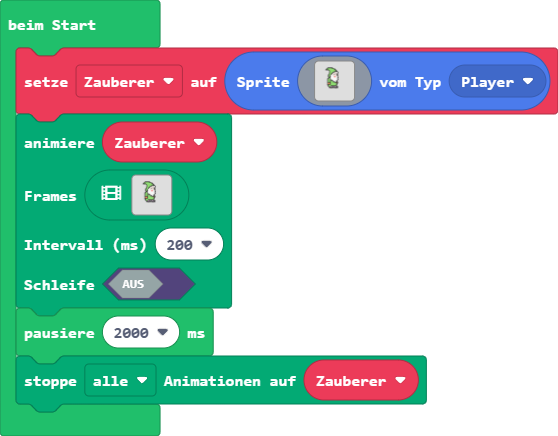
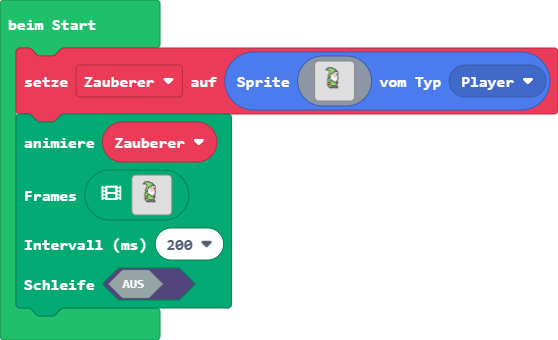
Animiere Geist und Zauberer

diff --git a/images.g.ts b/images.g.ts
@@ -109,8 +109,65 @@ namespace myImages {
 ..................................................
 ..................................................
 `;
-            case "image3":
-            case "Geist Normal0":return img`
+        }
+        return null;
+    })
+
+    helpers._registerFactory("animation", function(name: string) {
+        switch(helpers.stringTrim(name)) {
+            case "GeistAngriffAnimation":
+            case "anim2":return [img`
+...........................aa.....................
+............................aa....................
+............................aaa...................
+.............................aa...................
+............................aaaa....a.............
+............................aaaa....aa............
+........................aaaaaaaa.....aa...........
+......................aaaaaaaaa......aa...........
+....................aaaaaaaaaaa....aa.a...........
+....................aaaaaaaaaaaaa..a.a............
+..................aaaaaaaaaaaaaaaaaaa.............
+................aaaaaaaaaaaaaaaaaaaaa.............
+...............aaaaaaaaaaaaaaaaaaaaaa.............
+..............afaaaaaaaaaaaaaaaffaaaaaa...........
+..............affaaaaaaaaaaaaafffaaaaaa...........
+.............af11faaaaaaaaaaaff1faaaaaa...........
+............aaf111faaaaaaaaaff111faaaaa...........
+............aaf111faaaaaaaaff1111faaaaa...........
+...........aaaf111ffaaaaaaff11111faaaaa...........
+...........aaaff1111faaaaff11111ffaaaaa...........
+...........aaaaff111ffaaf11111fffaaaaaa...........
+...........bbbbaaffffaaaaff11ffaaaaaaaa....a......
+...........bccbbaaaaaaaaaaaffaaaaaabbbb....a......
+...........ccfcbbaaaaaaaaaaaaaaabbbbccc...aa......
+......aa...cfffcbbbbaaaaaaaaaabbbcccffc...aa......
+......aa...cfffcccbbbbaabbbbbbbcccffffc..aaa......
+......aa...cfffffccccbbbbbccccccffff1fcbaaaa......
+.......aa..cff1fffffcccccccfffffffff1fcbaaa.......
+.......aaa.cff1ff1ffffffffff1ff1f1fffccbaaa.......
+........aa.ccff1f1ff1ff1f1ff1ff1f1ffccbbaa........
+........aaabccf1f1ff1ff1f1ff1ffffffccbbaa.........
+..........abbccfffff1ffffff1fffffcccbba...........
+...........abbccffffff1ffff1fffcccbbbaa...........
+...........aabbcccffff1ffffffcccbbbaaa............
+............aabbbcccccccccccccbbbaaa..............
+.............aaabbbbbbbbbbbbbbbaaa................
+..............aaaaaaaaaaaaaaaaaaaa................
+..............aaaaaaaaaaaaaaaaaaa.................
+...............aaaaaaaaaaaaaaaaa..................
+................aaaaaaaaaaaaaaaa..................
+..................aaaaaaaaaaa.....................
+...................aaaaaaaaa......................
+...................aaaaaaaaa......................
+.....................aaaaaaaa.....................
+......................aaaaaaaa....................
+.........................aaaaaaa..................
+...........................aaaaa..................
+..................................................
+..................................................
+..................................................
+`, img`
 ...........................22.....................
 ............................44....................
 ............................444...................
@@ -161,66 +218,60 @@ namespace myImages {
 ..................................................
 ..................................................
 ..................................................
-`;
-        }
-        return null;
-    })
-
-    helpers._registerFactory("animation", function(name: string) {
-        switch(helpers.stringTrim(name)) {
+`, img`
+...........................aa.....................
+............................aa....................
+............................aaa...................
+.............................aa...................
+............................aaaa....a.............
+............................aaaa....aa............
+........................aaaaaaaa.....aa...........
+......................aaaaaaaaa......aa...........
+....................aaaaaaaaaaa....aa.a...........
+....................aaaaaaaaaaaaa..a.a............
+..................aaaaaaaaaaaaaaaaaaa.............
+................aaaaaaaaaaaaaaaaaaaaa.............
+...............aaaaaaaaaaaaaaaaaaaaaa.............
+..............afaaaaaaaaaaaaaaaffaaaaaa...........
+..............affaaaaaaaaaaaaafffaaaaaa...........
+.............af11faaaaaaaaaaaff1faaaaaa...........
+............aaf111faaaaaaaaaff111faaaaa...........
+............aaf111faaaaaaaaff1111faaaaa...........
+...........aaaf111ffaaaaaaff11111faaaaa...........
+...........aaaff1111faaaaff11111ffaaaaa...........
+...........aaaaff111ffaaf11111fffaaaaaa...........
+...........bbbbaaffffaaaaff11ffaaaaaaaa....a......
+...........bccbbaaaaaaaaaaaffaaaaaabbbb....a......
+...........ccfcbbaaaaaaaaaaaaaaabbbbccc...aa......
+......aa...cfffcbbbbaaaaaaaaaabbbcccffc...aa......
+......aa...cfffcccbbbbaabbbbbbbcccffffc..aaa......
+......aa...cfffffccccbbbbbccccccffff1fcbaaaa......
+.......aa..cff1fffffcccccccfffffffff1fcbaaa.......
+.......aaa.cff1ff1ffffffffff1ff1f1fffccbaaa.......
+........aa.ccff1f1ff1ff1f1ff1ff1f1ffccbbaa........
+........aaabccf1f1ff1ff1f1ff1ffffffccbbaa.........
+..........abbccfffff1ffffff1fffffcccbba...........
+...........abbccffffff1ffff1fffcccbbbaa...........
+...........aabbcccffff1ffffffcccbbbaaa............
+............aabbbcccccccccccccbbbaaa..............
+.............aaabbbbbbbbbbbbbbbaaa................
+..............aaaaaaaaaaaaaaaaaaaa................
+..............aaaaaaaaaaaaaaaaaaa.................
+...............aaaaaaaaaaaaaaaaa..................
+................aaaaaaaaaaaaaaaa..................
+..................aaaaaaaaaaa.....................
+...................aaaaaaaaa......................
+...................aaaaaaaaa......................
+.....................aaaaaaaa.....................
+......................aaaaaaaa....................
+.........................aaaaaaa..................
+...........................aaaaa..................
+..................................................
+..................................................
+..................................................
+`];
             case "MagierZaubertAnimation":
             case "anim1":return [img`
-..................................................
-..................................................
-..................................................
-..................................................
-..............ffffffff............................
-.............ff777777fff..........................
-............f77777777777ff........................
-...........fffff777777777ff.......................
-................f777777777ff......................
-.................f777777777ff.....................
-.................f777777ffffff....................
-.................f7777fff11111f...................
-.................f777ff1ddddd1f...................
-................f777ffdd1ddd1f....................
-................f77ff1d1fdd1ff....................
-...............ff77f11dddddddf....................
-...............f77f111dddddddf....................
-...............f77f1111111111f....................
-...............f7ff11111222111f...................
-................fff11111111111f...................
-...............f7f11111111111f....................
-..............ff77f11111111111f...................
-..............f777ff1111111111f...................
-..............f7777f1f1111111f....................
-..............f777fffff11111f.....................
-..............f77f7777f1f111f.....................
-..............f777f7777fff1fff....................
-..............fffff777777fff4f....................
-..............f444f777777777ff....................
-..............f444f777777777f.....................
-..............fffff777777777f.....................
-..............ff777777777777f.....................
-...............f777fffffffff......................
-...............f77fbbf..fbbfff....................
-................ffbbbbf.fbbbbf....................
-.................ffffff.ffffff....................
-..................................................
-..................................................
-..................................................
-..................................................
-..................................................
-..................................................
-..................................................
-..................................................
-..................................................
-..................................................
-..................................................
-..................................................
-..................................................
-..................................................
-`, img`
 ..................................................
 ..................................................
 ..................................................
@@ -304,6 +355,57 @@ namespace myImages {
 ..............f444f777777777f7f7ff................
 ..............fffff777777777f7ff..................
 ..............ff777777777777ff....................
+...............f777fffffffff......................
+...............f77fbbf..fbbfff....................
+................ffbbbbf.fbbbbf....................
+.................ffffff.ffffff....................
+..................................................
+..................................................
+..................................................
+..................................................
+..................................................
+..................................................
+..................................................
+..................................................
+..................................................
+..................................................
+..................................................
+..................................................
+..................................................
+..................................................
+`, img`
+..................................................
+..................................................
+..................................................
+..................................................
+..............ffffffff............................
+.............ff777777fff..........................
+............f77777777777ff........................
+...........fffff777777777ff.......................
+................f777777777ff......................
+.................f777777777ff.....................
+.................f777777ffffff....................
+.................f7777fff11111f...................
+.................f777ff1ddddd1f...................
+................f777ffdd1ddd1f....................
+................f77ff1d1fdd1ff....................
+...............ff77f11dddddddf....................
+...............f77f111dddddddf....................
+...............f77f1111111111f....................
+...............f7ff11111222111f...................
+................fff11111111111f...................
+...............f7f11111111111f....................
+..............ff77f11111111111f...................
+..............f777ff1111111111f...................
+..............f7777f1f1111111f....................
+..............f777fffff11111f.....................
+..............f77f7777f1f111f.....................
+..............f777f7777fff1fff....................
+..............fffff777777fff4f....................
+..............f444f777777777ff....................
+..............f444f777777777f.....................
+..............fffff777777777f.....................
+..............ff777777777777f.....................
 ...............f777fffffffff......................
 ...............f77fbbf..fbbfff....................
 ................ffbbbbf.fbbbbf....................

diff --git a/main.ts b/main.ts
@@ -5,5 +5,3 @@ assets.animation`MagierZaubertAnimation`,
 200,
 false
 )
-pause(2000)
-animation.stopAnimation(animation.AnimationTypes.All, Zauberer)
